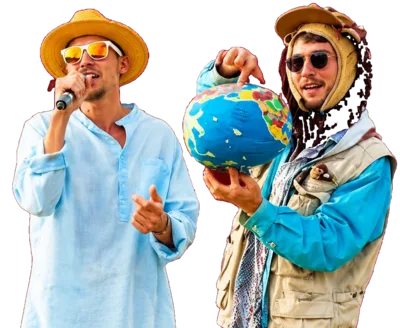
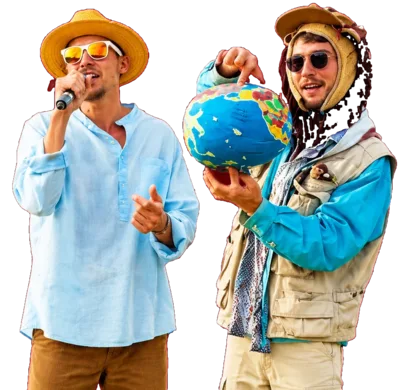
edutainment: the locomotive rides lower, pants showing
Wider and dropped a little, so the crew's trousers clear its roofline
instead of the crop starting at the shirt hem. The crop moves down to
mid-thigh to give that strip something to show.

The covering edge is the tender, not the cab — the locomotive's top
silhouette swings between .43 and .68 of its height, and the crew stand
over its highest stretch. The rig's aspect ratio and the crew's offset
are set from that measured point, so the crop line clears it by the same
proportion at every width.

diff --git a/src/pages/Edutainment.jsx b/src/pages/Edutainment.jsx
@@ -268,9 +268,9 @@ export default function Edutainment() {
            instead drifts out from behind the train as the column reflows and
            shows the cut. The rig's aspect ratio is the stack's full height,
            locomotive plus the part of the crew standing above it. */
-        .ed-rig{ position:relative; width:100%; max-width:460px; margin:clamp(14px,3vh,26px) auto 0;
-          aspect-ratio:1 / .961; pointer-events:none; }
-        .ed-scene-crew{ position:absolute; right:2%; bottom:32.6%; width:79%; height:auto; z-index:2;
+        .ed-rig{ position:relative; width:100%; max-width:500px; margin:clamp(14px,3vh,26px) auto 0;
+          aspect-ratio:1 / 1.074; pointer-events:none; }
+        .ed-scene-crew{ position:absolute; right:2%; bottom:28.2%; width:79%; height:auto; z-index:2;
           filter:drop-shadow(0 18px 26px rgba(0,0,0,.42)); }
         .ed-train{ position:absolute; right:0; bottom:0; width:100%; height:auto; z-index:3;
           transform:scaleX(-1); filter:drop-shadow(0 16px 22px rgba(0,0,0,.40)); }
@@ -279,7 +279,7 @@ export default function Edutainment() {
            list beside it — so the wheels land exactly on the last bullet. */
         @media (min-width:900px){
           .ed-scene{ position:relative; min-height:300px; }
-          .ed-rig{ position:absolute; right:-6%; bottom:0; width:104%; max-width:none; margin:0; }
+          .ed-rig{ position:absolute; right:-6%; bottom:-5%; width:112%; max-width:none; margin:0; }
         }
 
         /* closing CTA sits on the solar disco */
@@ -355,7 +355,7 @@ export default function Edutainment() {
               <img className="ed-scene-crew" src="/art/edutainment/crew-cutout-800.webp"
                    srcSet="/art/edutainment/crew-cutout-400.webp 400w, /art/edutainment/crew-cutout-800.webp 800w"
                    sizes="(max-width: 900px) 74vw, 430px" alt={c.crew_alt}
-                   width="800" height="656" loading="lazy" decoding="async" />
+                   width="800" height="780" loading="lazy" decoding="async" />
               <img className="ed-train" src="/art/edutainment/steam-train-1200.webp"
                    srcSet="/art/edutainment/steam-train-600.webp 600w, /art/edutainment/steam-train-1200.webp 1200w"
                    sizes="(max-width: 900px) 92vw, 430px" alt=""
